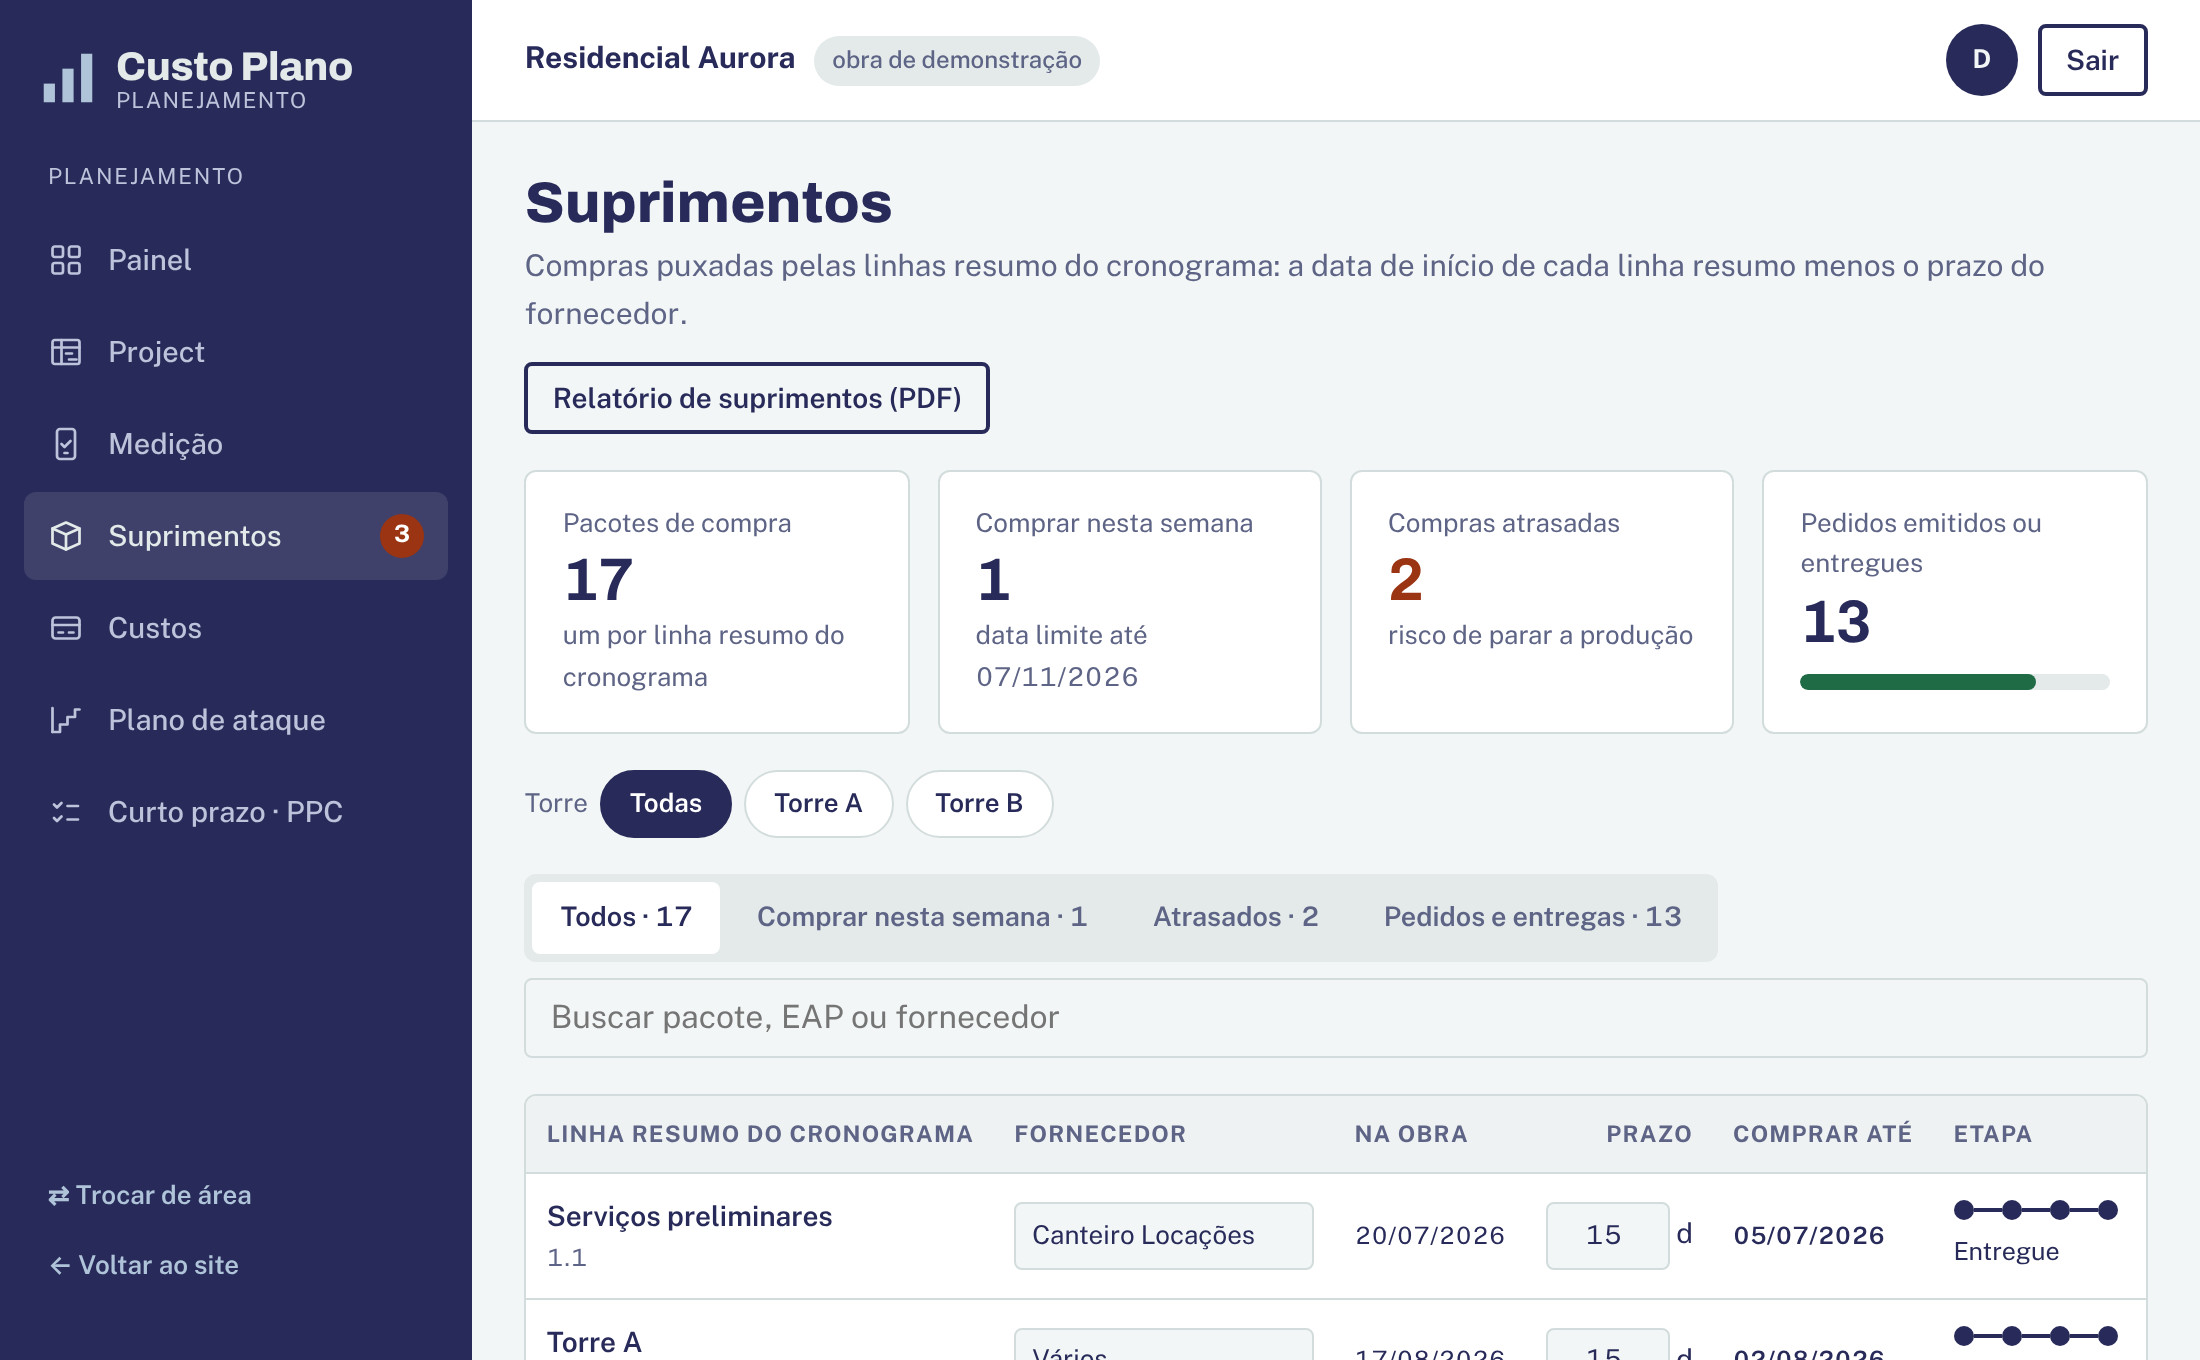
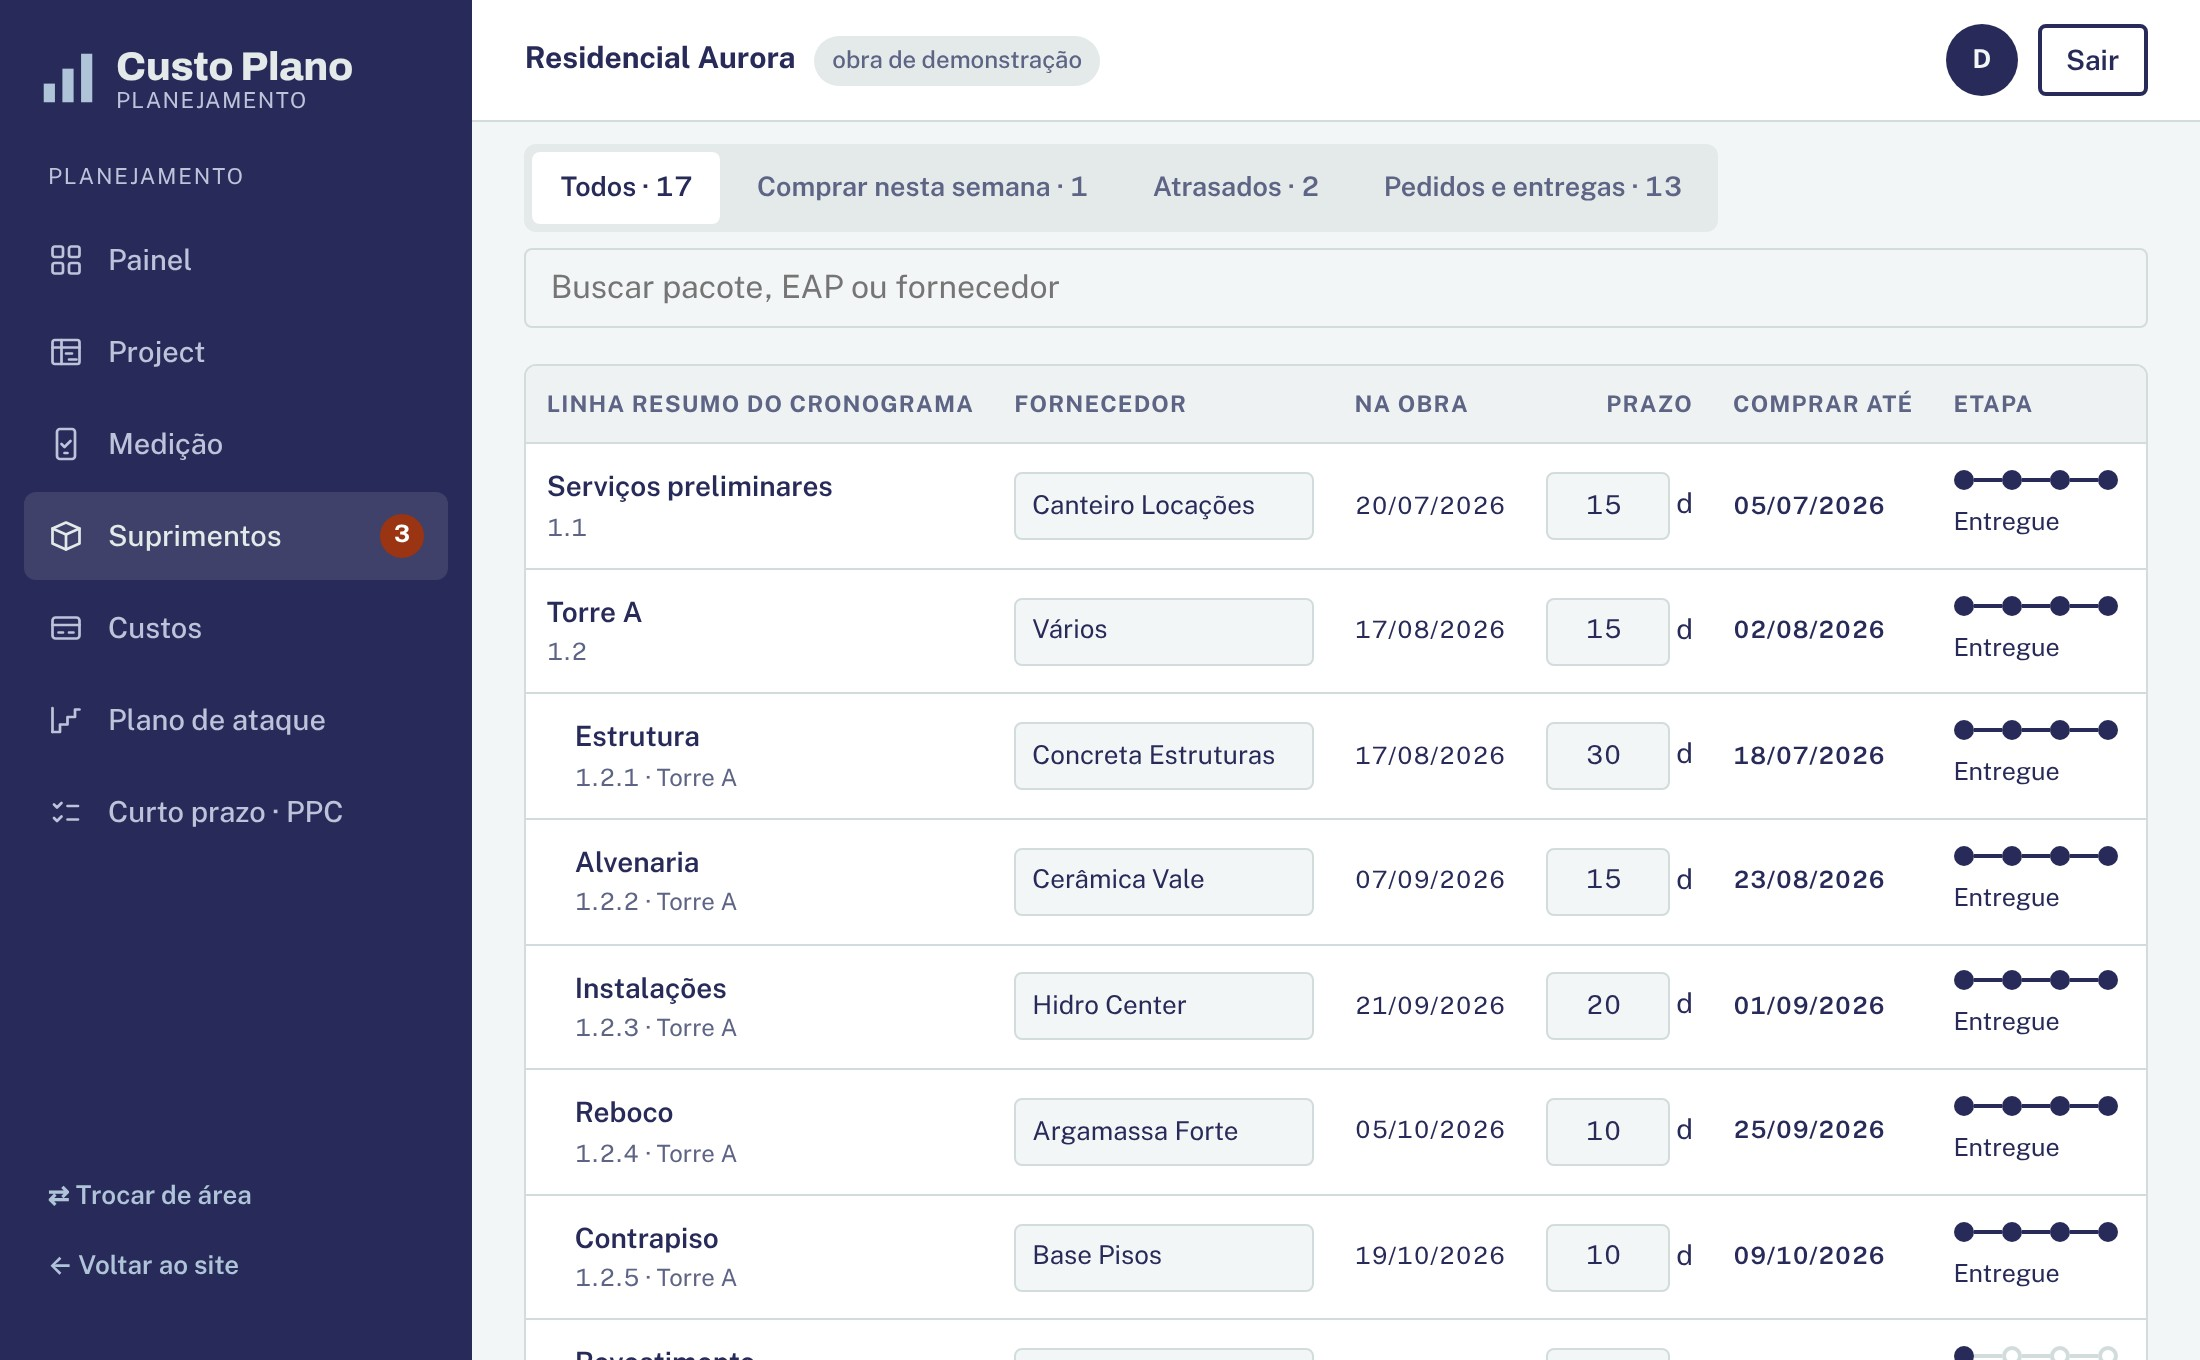
Site: imagens da escadinha e de suprimentos mostrando o conteúdo da tela
Claude-Session: https://claude.ai/code/session_019mzwrJJmGSibYtQ3xemZZR

diff --git a/custoplano/web/index.html b/custoplano/web/index.html
@@ -1199,11 +1199,11 @@ button.chip[data-adm^="serv:"]{border:0;cursor:pointer;font:inherit;display:inli
           <figcaption>Avanço real contra o previsto, término previsto e atraso, PPC, tarefas atrasadas, curva S e os pacotes da semana, tudo puxado do cronograma do MS Project.</figcaption>
         </figure>
         <figure class="tela" role="tabpanel" id="tp-pa" aria-labelledby="tt-pa" hidden>
-          <div class="tela-img"><img src="/web/telas/pa.jpg?v=4" width="1100" height="680" alt="Escadinha por torre: serviços por pavimento com as datas, executados, em andamento e atrasados" loading="lazy"></div>
+          <div class="tela-img"><img src="/web/telas/pa.jpg?v=5" width="1100" height="680" alt="Escadinha por torre: serviços por pavimento com as datas, executados, em andamento e atrasados" loading="lazy"></div>
           <figcaption>A escadinha sai do próprio cronograma: um quadro por torre, do térreo à cobertura, com o que foi executado, o que atrasou e o desvio contra a linha de base. Dá para imprimir e levar para a reunião.</figcaption>
         </figure>
         <figure class="tela" role="tabpanel" id="tp-sup" aria-labelledby="tt-sup" hidden>
-          <div class="tela-img"><img src="/web/telas/sup.jpg?v=4" width="1100" height="680" alt="Suprimentos: lista de materiais com data na obra, prazo do fornecedor, data limite de compra e situação" loading="lazy"></div>
+          <div class="tela-img"><img src="/web/telas/sup.jpg?v=5" width="1100" height="680" alt="Suprimentos: lista de materiais com data na obra, prazo do fornecedor, data limite de compra e situação" loading="lazy"></div>
           <figcaption>Cada pacote do cronograma vira uma compra com data limite: a data em que o serviço começa menos o prazo do fornecedor. O fornecedor também volta para o MS Project numa coluna própria.</figcaption>
         </figure>
         <figure class="tela" role="tabpanel" id="tp-med" aria-labelledby="tt-med" hidden>
